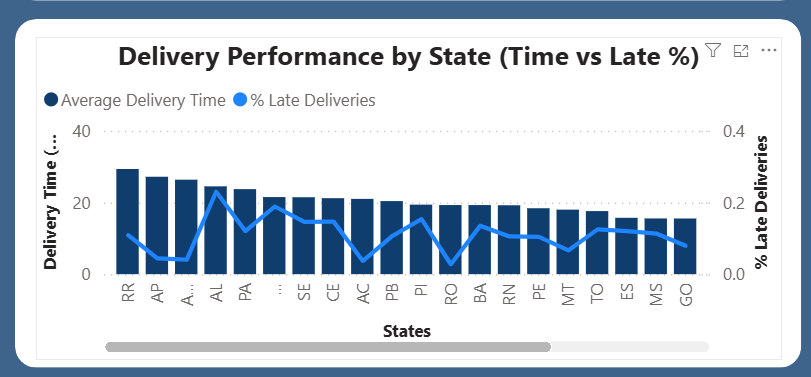
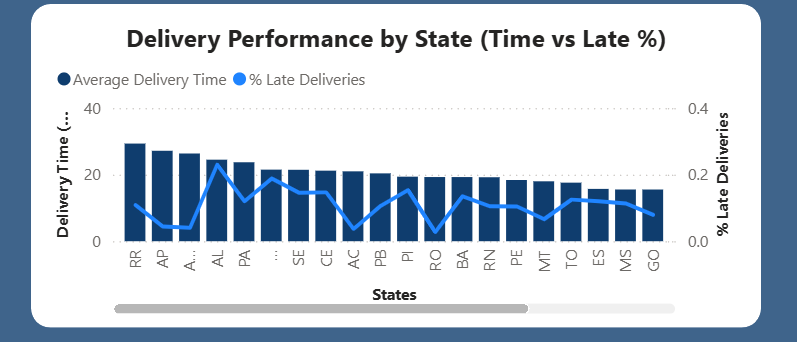
commit

diff --git a/README.md b/README.md
@@ -165,6 +165,15 @@ This page focuses on customer demographics, product behaviour, and payment trend
 ### **Purpose**
 To understand who the customers are, what they buy, and how they pay.
 
+
+📍More Visuals
+
+## KPIs
+
+![KPI1]()
+
+![KPI]()
+
 ---
 
 # 🔍 Key Insights